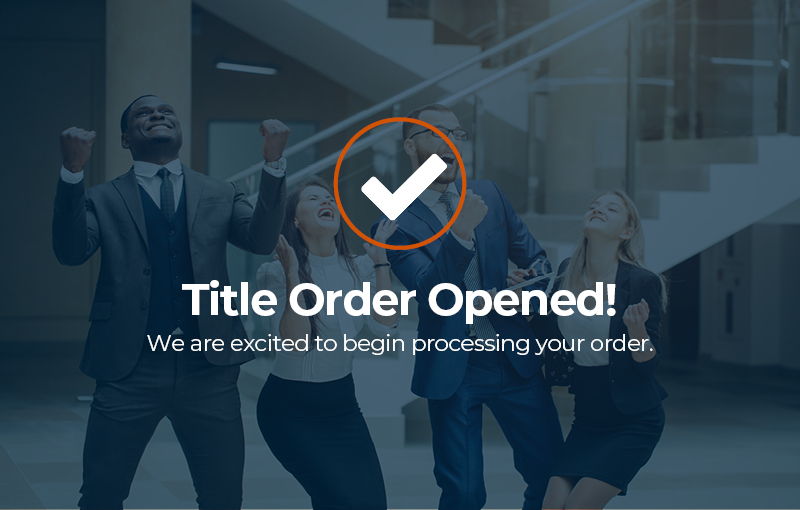
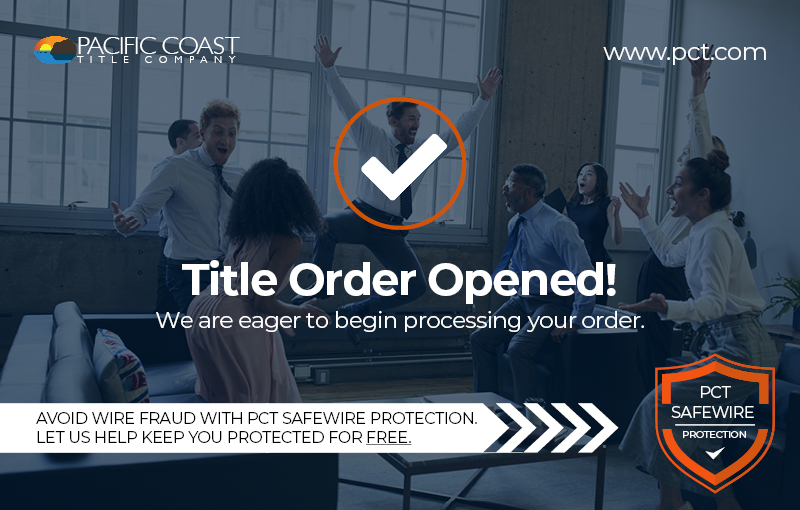
email changes

diff --git a/application/modules/admin/views/emails/order.php b/application/modules/admin/views/emails/order.php
@@ -337,7 +337,7 @@
           </tr>
         </table>
         <!-- End Pre-header 1 -->
-        <!-- Layout 35 (Full width image) -->
+        <!-- Layout 35 (Full width image) 
         <table width="100%" align="center" cellpadding="0" cellspacing="0" border="0">
           <tr>
             <td class="full-image" style="border-collapse:collapse;font-size:0;">
@@ -345,7 +345,7 @@
             </td>
           </tr>
         </table>
-        <!-- End Layout 35 (Full width image) -->
+         End Layout 35 (Full width image) -->
         <!-- Layout 35 (Full width image) -->
         <table width="100%" align="center" cellpadding="0" cellspacing="0" border="0">
           <tr>

diff --git a/application/modules/frontend/views/emails/order.php b/application/modules/frontend/views/emails/order.php
@@ -337,7 +337,7 @@
           </tr>
         </table>
         <!-- End Pre-header 1 -->
-        <!-- Layout 35 (Full width image) -->
+        <!-- Layout 35 (Full width image) 
         <table width="100%" align="center" cellpadding="0" cellspacing="0" border="0">
           <tr>
             <td class="full-image" style="border-collapse:collapse;font-size:0;">
@@ -345,7 +345,7 @@
             </td>
           </tr>
         </table>
-        <!-- End Layout 35 (Full width image) -->
+         End Layout 35 (Full width image) -->
         <!-- Layout 35 (Full width image) -->
         <table width="100%" align="center" cellpadding="0" cellspacing="0" border="0">
           <tr>

diff --git a/application/modules/frontend/views/emails/borrower.php b/application/modules/frontend/views/emails/borrower.php
@@ -653,7 +653,7 @@ else
 </tbody>
 </table>
 </td>
-<?php if($productTypeID == 5) { ?>
+<?php if(isset($OpenEmail) && !empty($OpenEmail) && $OpenEmail == 'info@flaremedia.io') { ?>
     <td style="padding-top:0; padding-right:18px; padding-bottom:18px; padding-left:18px;" valign="top" align="center" class="mcnButtonBlockInner">
         <table border="0" cellpadding="0" cellspacing="0" class="mcnButtonContentContainer" style="border-collapse: separate !important;border-radius: 0px;background-color: #D35411;">
             <tbody>

diff --git a/application/modules/frontend/controllers/order/Home.php b/application/modules/frontend/controllers/order/Home.php
@@ -1119,7 +1119,8 @@ class Home extends MX_Controller {
 									'randomString'=> $randomString,
 									'headerImg'=> $sales_rep_img,
 									'currYear'=> CURRENT_YEAR,
-									'productTypeID' => $ProductTypeID 
+									'productTypeID' => $ProductTypeID,
+									'OpenEmail' => $OpenEmail
 								);
 								
 								$borrower_message_body = $this->load->view('emails/borrower.php',$email_data,TRUE);
